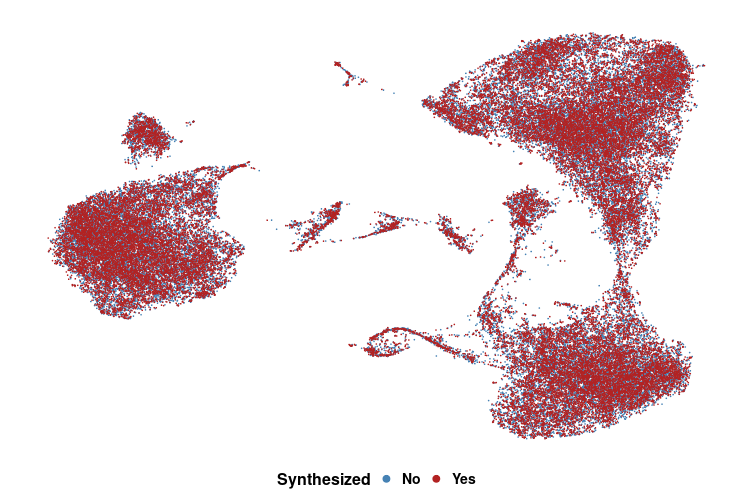
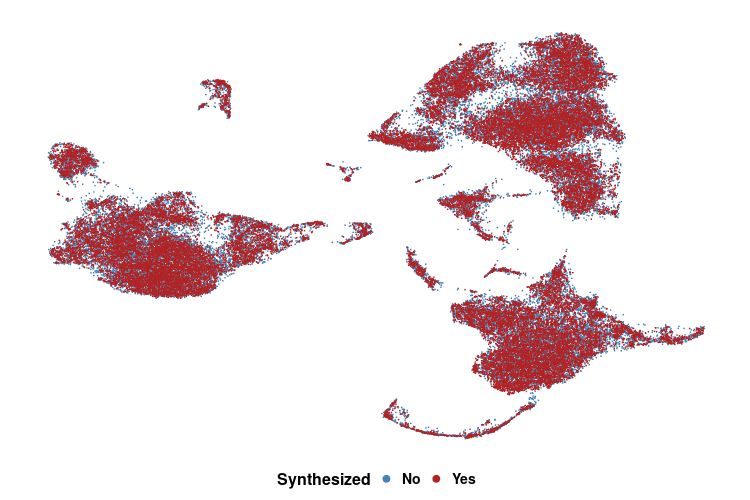
readme

diff --git a/README.md b/README.md
@@ -139,7 +139,7 @@ sobj_synt <- CreateSeuratObject(counts=cnts,
   FindVariableFeatures(., nfeatures=2000) %>%
   ScaleData(.) %>%
   RunPCA(., seed.use=42) %>%
-  RunHarmony(., group.by.vars=c("sample", "synthesized")) %>% # sample- and synthsis-specific batch correction
+  RunHarmony(., group.by.vars="sample") %>% # sample-specific batch correction
   FindNeighbors(., reduction="harmony", dims=1:30) %>%
   FindClusters(., random.seed=42) %>%
   RunUMAP(., reduction="harmony", seed.use=42, dims=1:30)
@@ -172,11 +172,11 @@ synthesizing 34,200 cells...
 34,057 cells synthesized...
 34,150 cells synthesized...
 34,200 cells synthesized...
-Synthesis completed in: 2.57 min
+Synthesis completed in: 5.18 min
 Integrating data (1/4)
-  [==================================================] 100% in  4m
+  [==================================================] 100% in  3m
 Integrating data (2/4)
-  [==================================================] 100% in 43s
+  [==================================================] 100% in 37s
 Integrating data (3/4)
   [==================================================] 100% in  1m
 Integrating data (4/4)
@@ -195,12 +195,12 @@ statsScGFT(object=sobj_synt, groups="seurat_clusters")
 
 ```{r}
 Synthesized cells: 34,200
-Matching groups: 33,906
-Accuracy (%): 99.14
+Matching groups: 31,585
+Accuracy (%): 92.35
 Calculating deviation from originals...
   [==================================================] 100% in  3m
-  [==================================================] 100% in  2m
-Deviation (%): 0.44 +/- 0.08
+  [==================================================] 100% in  1m
+Deviation (%): 1.55 +/- 0.38
 ```
 
 Utilizing UMAP for a qualitative evaluation, we project synthesized and
@@ -216,6 +216,65 @@ real cells onto the embedded manifold:
 
 Depending on the operating system used for calculations, the
 results can be slightly different from the projected ones.
+
+#### Perform cell-based synthesis:
+
+In this showcase, we expand rare epithelial subtypes, including aberrant
+basaloid cells, PNECs, and ionocytes, each comprising less than 0.3% of the
+population:
+
+```{r}
+set.seed(1234)
+sobj_synt <- CreateSeuratObject(counts=cnts,
+                                meta.data=mtd) %>%
+  NormalizeData(., normalization.method="LogNormalize", scale.factor=1e6) %>%
+  FindVariableFeatures(., nfeatures=2000) %>%
+  # ================================
+  # synthesis 1,000, through modification of 10 complex components, for each of given annotated rare epithelial subtypes
+  RunScGFT(., nsynth=1000, ncpmnts=10, cells = "S2_ACGGAGAGTTCCCGAG-1") %>% # "Ionocyte" pre-annotated cell
+  RunScGFT(., nsynth=1000, ncpmnts=10, cells = "S1_ATTACTCTCGTTGCCT-1") %>% # "Pnec" pre-annotated cell
+  RunScGFT(., nsynth=1000, ncpmnts=10, cells = "S1_AAGCCGCGTGCCTGCA-1") %>% # "Aberrant_basaloid" pre-annotated cell
+  # ================================
+  FindVariableFeatures(., nfeatures=2000) %>%
+  ScaleData(.) %>%
+  RunPCA(., seed.use=42) %>%
+  RunHarmony(., group.by.vars=c("sample")) %>% # sample- and synthsis-specific batch correction
+  FindNeighbors(., reduction="harmony", dims=1:30) %>%
+  FindClusters(., random.seed=42) %>%
+  RunUMAP(., reduction="harmony", seed.use=42, dims=1:30)
+```
+
+
+#### Evaluate synthsized cells
+
+Next, we evaluate the consistency of cell types in synthesized cells relative to
+the originals. Cells goes through another round of cell type annotation using
+Sargent (link), an automated, cluster-free, score-based annotation method that
+classifies cell types based on distinct gene expression markers (link). Then, the
+annotations of the synthesized cells are evaluated by:
+
+```{r}
+statsScGFT(object=sobj_synt, groups="sargent_celltype")
+```
+
+`statsScGFT` console outputs:
+
+```{r}
+Synthesized cells: 3,000
+Matching groups: 2,998
+Accuracy (%): 99.93
+Calculating deviation from originals...
+  [==================================================] 100% in  3s
+Deviation (%): 0.62 +/- 0.02
+```
+
+Utilizing UMAP for a qualitative evaluation, we project synthesized and
+real cells onto the embedded manifold:
+
+<p align="center" width="100%">
+<img style="width: 65%; height: auto;" src="inst/doc/panel_3_demo.png">
+</p>
+
 
 </details>
 
